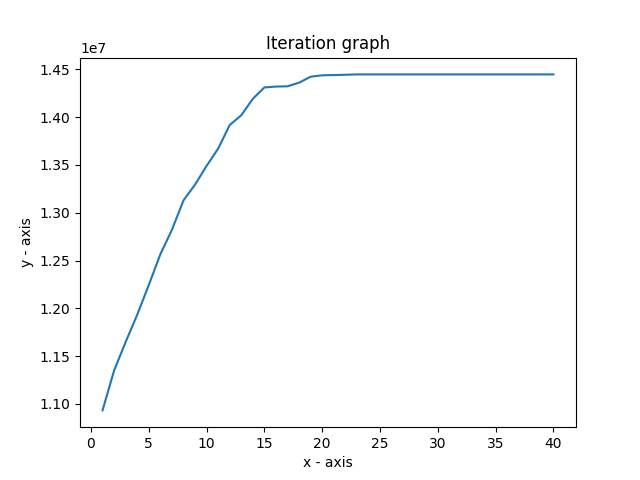
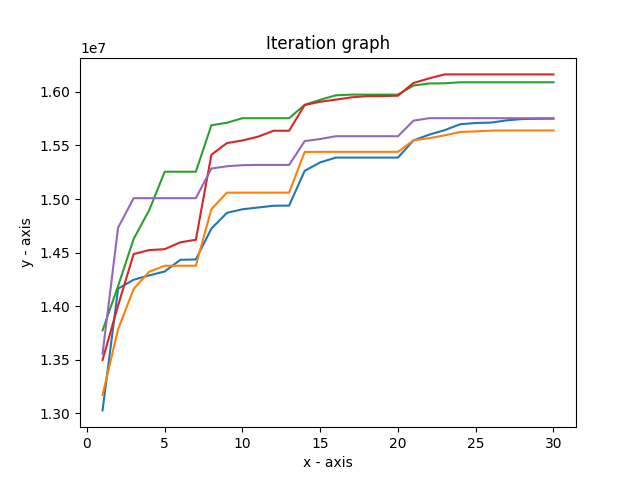
house now take directions if the move has the same value as the old

diff --git a/project_code/algorithms/hillclimber.py b/project_code/algorithms/hillclimber.py
@@ -31,7 +31,7 @@ class HillClimber():
         generations.append("copy_map")
         current_best_value = copy_map.total
         counter = 0
-        iterations = 40
+        iterations = 30
         # steps = 2
 
         # data for iteration graph
@@ -41,13 +41,13 @@ class HillClimber():
 
         for i in range(iterations):
 
-            if i < 18:
-                steps = 2
+            if i < 7:
+                steps = 8
             if i >= 7 and i < 13:
                 steps = 4
             if i >= 13 and i < 20:
                 steps = 2
-            if i >= 18:
+            if i >= 20:
                 steps = 1
 
             for house in copy_map.all_land_objects:
@@ -65,7 +65,7 @@ class HillClimber():
                     house.move(-steps, 0)
                     copy_map.total = 0
 
-                    if total_value_right > current_best_value:
+                    if total_value_right >= current_best_value:
                         generations.pop(0)
                         generations.append("right")
                         current_best_value = total_value_right
@@ -81,7 +81,7 @@ class HillClimber():
                     house.move(steps, 0)
                     copy_map.total = 0
 
-                    if total_value_left > current_best_value:
+                    if total_value_left >= current_best_value:
                         generations.pop(0)
                         generations.append("left")   
                         current_best_value = total_value_left            
@@ -97,7 +97,7 @@ class HillClimber():
                     house.move(0, -steps)
                     copy_map.total = 0
 
-                    if total_value_up > current_best_value:
+                    if total_value_up >= current_best_value:
                         generations.pop(0)
                         generations.append("up")
                         current_best_value = total_value_up
@@ -113,7 +113,7 @@ class HillClimber():
                     house.move(0, steps)
                     copy_map.total = 0
 
-                    if total_value_down > current_best_value:
+                    if total_value_down >= current_best_value:
                         generations.pop(0)          
                         generations.append("down")
                         current_best_value = total_value_down
@@ -129,7 +129,7 @@ class HillClimber():
                     house.move(-steps, -steps)
                     copy_map.total = 0
 
-                    if total_value_top_right_corner > current_best_value:
+                    if total_value_top_right_corner >= current_best_value:
                         generations.pop(0)          
                         generations.append("top_right_corner")
                         current_best_value = total_value_top_right_corner  
@@ -145,7 +145,7 @@ class HillClimber():
                     house.move(steps, -steps)
                     copy_map.total = 0
 
-                    if total_value_top_left_corner > current_best_value:
+                    if total_value_top_left_corner >= current_best_value:
                         generations.pop(0)          
                         generations.append("top_left_corner")
                         current_best_value = total_value_top_left_corner 
@@ -161,7 +161,7 @@ class HillClimber():
                     house.move(-steps, steps)
                     copy_map.total = 0
 
-                    if total_value_bottom_right_corner > current_best_value:
+                    if total_value_bottom_right_corner >= current_best_value:
                         generations.pop(0)          
                         generations.append("bottom_right_corner")
                         current_best_value = total_value_bottom_right_corner  
@@ -177,7 +177,7 @@ class HillClimber():
                     house.move(steps, steps)
                     copy_map.total = 0
 
-                    if total_value_bottom_left_corner > current_best_value:
+                    if total_value_bottom_left_corner >= current_best_value:
                         generations.pop(0)          
                         generations.append("bottom_left_corner")
                         current_best_value = total_value_bottom_left_corner 

diff --git a/main.py b/main.py
@@ -4,6 +4,7 @@ from sys import argv
 from project_code.algorithms.render_randomise import Randomise
 from project_code.algorithms.genetic import Genetic
 from project_code.algorithms.hillclimberswap import Hillclimber
+from project_code.algorithms.hillclimber import HillClimber
 from project_code.algorithms.simulated_annealing import Simulated_annealing
 import cProfile
 import csv
@@ -28,7 +29,7 @@ if __name__ == "__main__":
     
     # --------------------------- Random  --------------------------
     # empty_graph = Land(f"data/{wijk_number}.csv")
-    # winner_graph = Randomise(empty_graph, number_of_houses, 400)
+    # winner_graph = Randomise(empty_graph, number_of_houses, 20)
     # visualise(winner_graph.winner.all_land_objects, winner_graph.winner.total, len(winner_graph.winner.all_land_objects))
 
     # # --------------------------- Hillclimber swap ---------------------------
@@ -50,17 +51,17 @@ if __name__ == "__main__":
     
 
     # # --------------------------- Simulated annealing  --------------------------
-    empty_graph = Land(f"data/{wijk_number}.csv")
-    winner = Simulated_annealing(empty_graph, number_of_houses).end_result
-    visualise(winner.all_land_objects, winner.total, len(winner.all_land_objects))
+    # empty_graph = Land(f"data/{wijk_number}.csv")
+    # winner = Simulated_annealing(empty_graph, number_of_houses).end_result
+    # visualise(winner.all_land_objects, winner.total, len(winner.all_land_objects))
 
     # --------------------------- Hill Climber  --------------------------
     empty_graph = Land(f"data/{wijk_number}.csv")
     results = []
     winner = None
     counter = 0
-    for i in range(1):
-        starting_graph = Randomise(empty_graph, number_of_houses, 10)
+    for i in range(5):
+        starting_graph = Randomise(empty_graph, number_of_houses, 100)
         winner_graph = HillClimber(starting_graph.winner)
         results.append(winner_graph.winner.total_real)
 
@@ -71,7 +72,7 @@ if __name__ == "__main__":
         counter += 1
         print(counter) 
 
-    visualise(winner.winner.all_land_objects, winner.winner.total_real)
+    visualise(winner.winner.all_land_objects, winner.winner.total_real, len(winner.winner.all_land_objects))
 
     # ---------------------------------------------------------------------
 

diff --git a/project_code/visualisations/visualise.py b/project_code/visualisations/visualise.py
@@ -40,9 +40,10 @@ def visualise(land_objects, total, number_land_objects, out_path="output/test.pn
     plt.title(f'Housing map, total: {total}, number land objects: {number_land_objects}')
     plt.xlabel('width')
     plt.ylabel('depth')
+    plt.margins(0,0)
     # plt.zlabel('height')
-    ax.set_ylim(ymin=0)
-    ax.set_xlim(xmin=0)
+    # ax.set_ylim(ymin=0)
+    # ax.set_xlim(xmin=0)
 
     plt.savefig(out_path)
     
